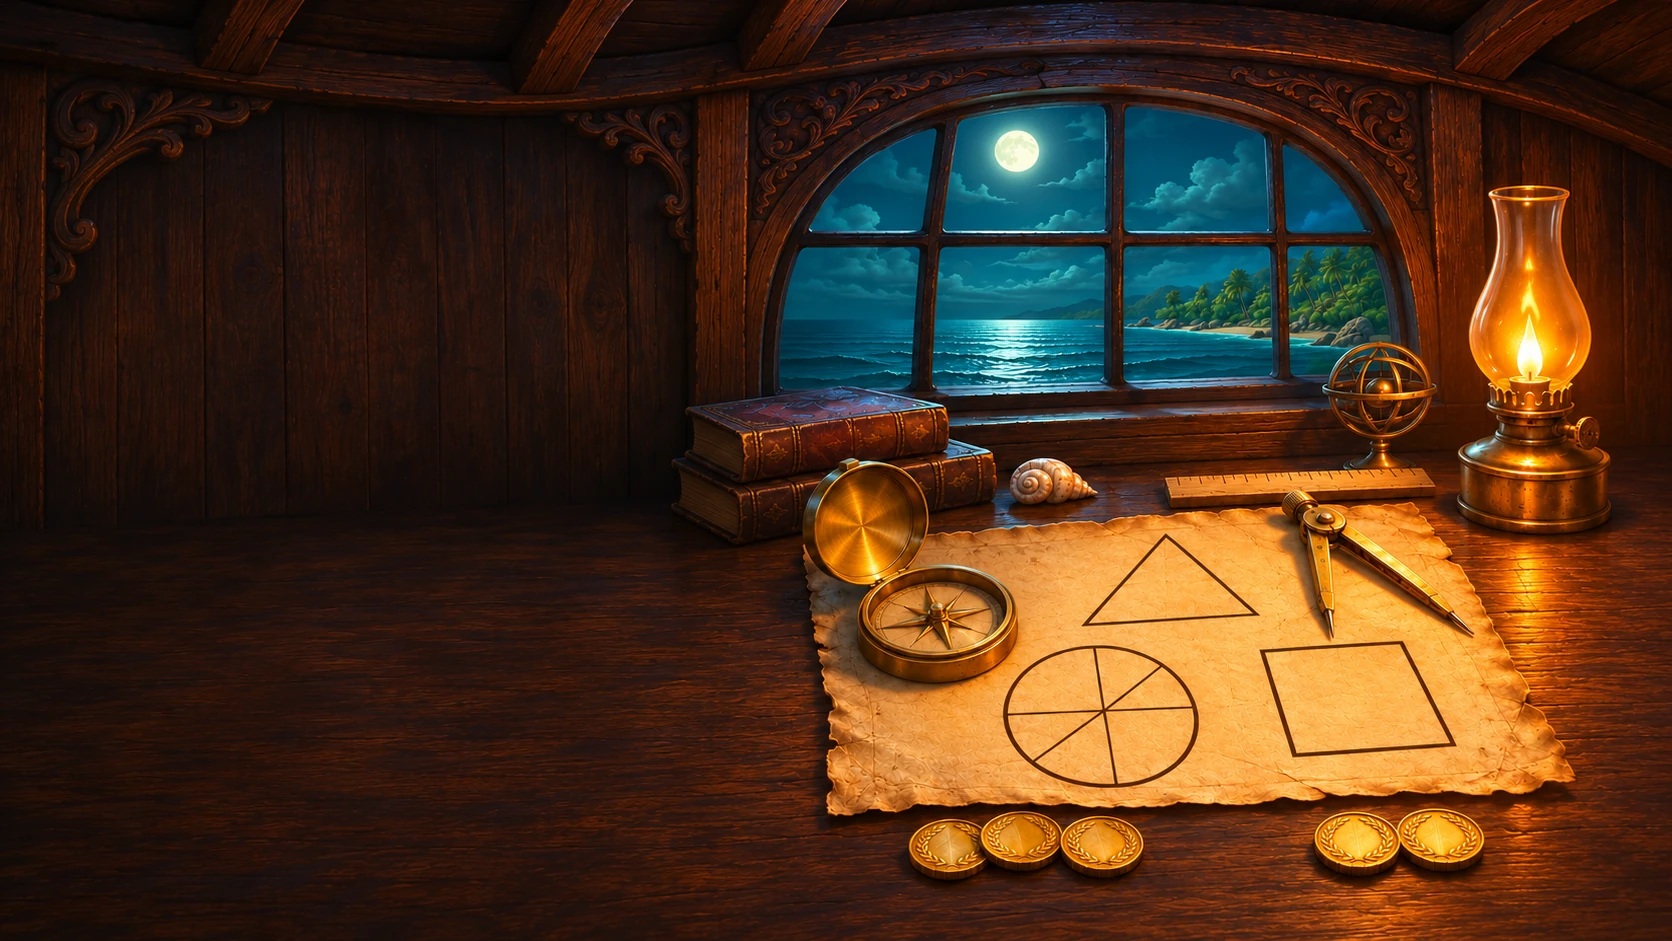
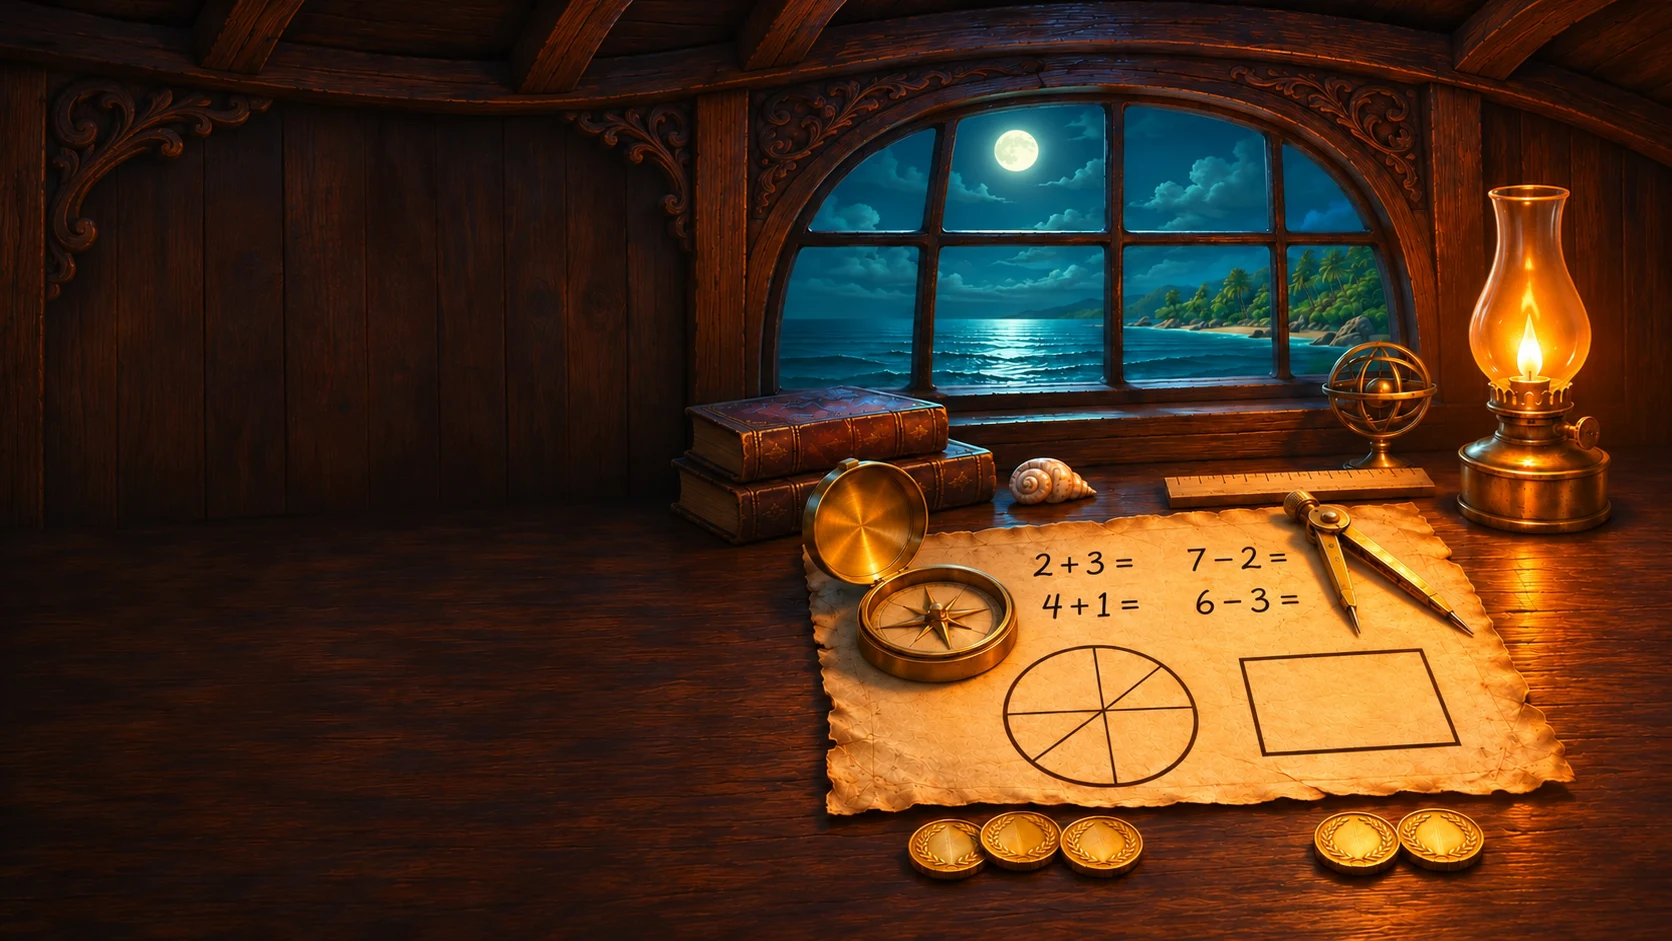
Add arithmetic notes and main-menu language in both pirate games

diff --git a/demos/broadside/src/ui/voyageHud.ts b/demos/broadside/src/ui/voyageHud.ts
@@ -24,6 +24,8 @@ import { icon } from "./icons";
 import { backButton, menuBrand, menuHeader } from "./menuChrome";
 import { PRIVATE_PEARL } from "../privatePearl";
 import { lanternHome } from "./lanternHome";
+import { createI18n, isLanguagePreference, readLanguagePreference, saveLanguagePreference } from "../math/i18n";
+import { languagePickerMarkup, dismissLanguagePicker } from "./languagePicker";
 import "./explorationHud.css";
 import { touchSteeringTurn } from "../input/touchSteering";
 import { pirateShipArt } from "./worldArt";
@@ -34,6 +36,11 @@ import { drawLandmarkSymbol } from "./seaChartSymbols";
 import { mountMapPan, type MapCamera, type MapPanController } from "./mapPan";
 import { worldChoices, shoreMarker } from "./islandChart";
 import { LEVEL_ROUTE, locationWorld, type ShipLocation } from "../game/journey";
+const homeLanguageKey = "broadside.home.language.v1";
+const deviceLanguages = () => navigator.languages?.length ? navigator.languages : [navigator.language];
+function homeStorage(): Storage | undefined {
+  try { return window.localStorage; } catch { return undefined; }
+}
 interface Handlers {
   start: (index: number) => void;
   travel: (destination: "cave" | "ship" | "hold" | number) => void;
@@ -65,6 +72,7 @@ export class VoyageHud {
   private goldWorld = 0;
   pack = 0;
   private progress: Progress;
+  private homeLanguage = readLanguagePreference(homeStorage(), homeLanguageKey);
   private messageUntil = 0;
   private activeLevel = 0;
   private freeSeed: number | null = null;
@@ -91,6 +99,7 @@ export class VoyageHud {
     <section id="captain-menu" class="captain-menu">
       <div class="menu-atmosphere" aria-hidden="true"><div class="moon"></div><div class="distant-rocks"></div><div class="hero-ship">${pirateShipArt()}</div><div class="ocean-mist"></div><div class="menu-embers"></div></div>
       <div id="main-menu" class="menu-page">${lanternHome()}</div>
+      <dialog class="language-picker" aria-labelledby="language-picker-title"></dialog>
       <div id="world-menu" class="menu-page" hidden><div class="menu-heading"><span class="eyebrow">CHART YOUR COURSE</span><h1>The pirate seas</h1><p>Choose an island. Chart your adventure.</p></div><div class="world-map" role="group" aria-label="Pirate sea chart"><svg class="map-route" viewBox="0 0 1000 1000" preserveAspectRatio="none" aria-hidden="true"><path class="route-wide" d="M370 930 C280 885 90 720 170 520 S250 90 410 190 S440 650 650 480 S735 90 865 135"/><path class="route-tall" d="M170 930 C110 810 110 710 245 635 S815 810 755 545 S80 525 245 185 S570 290 755 150"/></svg><button id="map-cave" class="map-cave" aria-label="Visit treasure cave"><img class="cave-art" src="${import.meta.env.BASE_URL}assets/map/treasure-cave.webp" width="640" height="640" alt="" draggable="false" decoding="async" /><span>Your cave</span></button><div id="world-packs"></div></div><p class="map-footnote">Gold in every level. A special treasure in every world.</p></div>
       <div id="level-menu" class="menu-page" hidden><div class="menu-heading"><span class="eyebrow" id="world-number"></span><h1 id="world-name"></h1><p id="pack-caption"></p></div><div class="level-board"><div class="regional-viewport" tabindex="0" aria-label="Island route" data-map-viewport><div id="voyage-levels" data-map-world></div><button class="regional-center" data-map-control data-map-center aria-label="Recenter map" hidden>${icon("compass")}</button></div><p class="level-note">1,000 gold per level · Complete the world for its special treasure.</p></div></div>
       <div id="settings-menu" class="menu-page" hidden><div class="menu-heading"><span class="eyebrow">THE CAPTAIN’S ORDERS</span><h1>Settings</h1></div><div class="settings-board"><label class="coin-sounds-choice"><input id="coin-sounds" type="checkbox"> Coin sound effects</label><p id="coin-sounds-note">Clinks when coins tumble and land.</p><p>Steer with the wheel. Tap BOOM to fire.<br>Your treasures and stars are saved automatically.</p><button type="button" class="privacy-action" data-open-privacy>Privacy & support</button><p class="art-credit">Black Pearl model by <a href="https://www.thingiverse.com/thing:4951578" target="_blank" rel="noopener">DeltaX_F</a> · <a href="https://creativecommons.org/licenses/by/4.0/" target="_blank" rel="noopener">CC BY 4.0</a><br>Adapted for Broadside.</p></div></div>
@@ -201,6 +210,33 @@ export class VoyageHud {
     q("#v-anchor").onclick = h.anchor;
     q("#menu-play").onclick = () => this.showMenu("worlds");
     q("#home-ship").onclick = () => h.travel("hold");
+    const languagePicker = r.querySelector<HTMLDialogElement>(".language-picker")!;
+    const drawLanguage = (failed = false) => {
+      const languages = deviceLanguages();
+      const i18n = createI18n(this.homeLanguage, languages);
+      languagePicker.lang = i18n.language;
+      languagePicker.innerHTML = languagePickerMarkup(i18n, this.homeLanguage, languages, failed);
+    };
+    const focusLanguage = () => languagePicker.querySelector<HTMLElement>('[aria-pressed="true"]')?.focus();
+    q("#menu-language").onclick = () => {
+      drawLanguage();
+      languagePicker.showModal();
+      focusLanguage();
+    };
+    languagePicker.onclick = event => {
+      if (dismissLanguagePicker(languagePicker, event)) { languagePicker.close(); return; }
+      const choice = (event.target as HTMLElement).closest<HTMLElement>("[data-language]")?.dataset.language;
+      if (!isLanguagePreference(choice)) return;
+      this.homeLanguage = choice;
+      this.renderHomeLanguage();
+      if (saveLanguagePreference(choice, homeStorage(), homeLanguageKey)) {
+        languagePicker.close();
+        q("#menu-language").focus();
+      } else { drawLanguage(true); focusLanguage(); }
+    };
+    window.addEventListener("languagechange", () => {
+      if (r.isConnected && this.homeLanguage === "auto") this.renderHomeLanguage();
+    });
     q("#menu-settings").onclick = () => this.showMenu("settings");
     q("#menu-cave").onclick = q("#map-cave").onclick = () => h.travel("cave");
     q("#visit-ship").onclick = () => { this.closeShipPanel(); h.travel("ship"); };
@@ -352,6 +388,22 @@ export class VoyageHud {
     this.renderRelic();
     this.renderLevels();
   }
+  private renderHomeLanguage(): void {
+    const { language, t, format, plural } = createI18n(this.homeLanguage, deviceLanguages());
+    const count = cargoChests(this.progress).length;
+    const gold = goldTotal(caveProgress(this.progress));
+    this.q("#main-menu").lang = language;
+    this.q(".lantern-actions").setAttribute("aria-label", t("home"));
+    this.q("#menu-play span:last-child").textContent = t("play");
+    this.q("#home-ship .lantern-action-title").textContent = t("yourShip");
+    this.q("#home-ship strong").textContent = count ? plural("aboard", count) : t("noCargo");
+    this.q("#home-ship small").textContent = count ? t("comingHome", { gold: format(count * 1000) }) : "";
+    this.q("#menu-cave .lantern-action-title").textContent = t("yourCave");
+    this.q("#menu-cave strong").textContent = language === "en" ? `${format(gold)} gold saved` : t("savedGold", { gold: format(gold) });
+    this.q("#menu-cave small").textContent = "";
+    this.q("#menu-settings").textContent = t("settings");
+    this.q("#menu-language").textContent = t("language");
+  }
   private menuPage: "main" | "worlds" | "levels" | "settings" = "main";
   showMenu(page: "main" | "worlds" | "levels" | "settings" = "main"): void {
     if (page === "levels" && !worldUnlocked(this.progress.voyages, this.pack)) page = "worlds";
@@ -363,12 +415,7 @@ export class VoyageHud {
     this.regionalPan?.destroy();
     this.regionalPan = undefined;
     this.menuPage = page;
-    if (page === "main") {
-      const count = cargoChests(this.progress).length;
-      this.q('[data-home-destination="ship"] strong').textContent = count ? `${count.toLocaleString()} ${count === 1 ? "chest" : "chests"} aboard` : "No chests aboard";
-      this.q('[data-home-destination="ship"] small').textContent = count ? `${(count * 1000).toLocaleString()} gold to bring home` : "Your next reward goes here";
-      this.q('[data-home-destination="chest"] strong').textContent = `${goldTotal(caveProgress(this.progress)).toLocaleString()} gold saved`;
-    }
+    if (page === "main") this.renderHomeLanguage();
     this.q("#captain-menu").hidden = false;
     this.q("#cave-ui").hidden =
       this.q("#voyage-play").hidden =

diff --git a/demos/broadside/src/math/main.ts b/demos/broadside/src/math/main.ts
@@ -22,6 +22,7 @@ import { worldChoices, worldChart } from "../ui/islandChart";
 import "./adventure.css";
 import "./focus.css";
 import "./home.css";
+import { languagePickerMarkup, dismissLanguagePicker } from "../ui/languagePicker";
 
 type Screen = "home" | "operators" | "map" | "levels" | "question" | "reward" | "ship" | "unloading" | "complete" | "cave" | "settings";
 installButtonHaptics();
@@ -142,7 +143,7 @@ function home(): string {
       </button>` : ""}
       <button class="calculus-destination" data-action="ship"><strong>${t("yourShip")}</strong><small>${pending}</small></button>
       <button class="calculus-destination" data-action="cave" aria-label="${t("yourCave")}: ${t("savedGold", { gold: format(gold) })}"><strong>${t("yourCave")}</strong><small>${t("savedGold", { gold: navNumber(gold) })}</small></button>
-      <button class="calculus-destination" data-action="settings"><strong>${t("settings")}</strong></button>
+      <div class="home-utilities"><button class="calculus-destination" data-action="settings"><strong>${t("settings")}</strong></button><button class="calculus-destination" data-action="language" aria-haspopup="dialog"><strong>${t("language")}</strong></button></div>
     </nav>
   </section>`;
 }
@@ -410,8 +411,7 @@ function languageLabel() {
   return `<span aria-hidden="true">${flag}</span> ${name}`;
 }
 function drawPicker() {
-  const options = [{ id: "auto", name: t("automatic"), flag: LANGUAGES.find(lang => lang.id === detectLanguage(deviceLanguages()))!.flag }, ...LANGUAGES];
-  picker.innerHTML = `<header><h2 id="language-picker-title">${t("language")}</h2><button data-dismiss aria-label="${t("close")}">×</button></header><div class="language-options">${options.map(({id, name, flag}) => `<button data-language="${id}" lang="${id === "auto" ? i18n.language : id}" aria-pressed="${languagePreference === id}"><span aria-hidden="true">${flag}</span>${name}${languagePreference === id ? ' <b aria-hidden="true">✓</b>' : ""}</button>`).join("")}</div>${languageSaveFailed ? `<p role="status" id="language-save-error">${t("languageSaveError")}</p>` : ""}`;
+  picker.innerHTML = languagePickerMarkup(i18n, languagePreference, deviceLanguages(), languageSaveFailed);
 }
 function openPicker() {
   drawPicker();
@@ -420,11 +420,7 @@ function openPicker() {
 }
 picker.addEventListener("click", event => {
   const target = event.target as HTMLElement;
-  const rect = picker.getBoundingClientRect();
-  if (target.closest("[data-dismiss]") || (target === picker && (event.clientX < rect.left || event.clientX > rect.right || event.clientY < rect.top || event.clientY > rect.bottom))) {
-    picker.close();
-    return;
-  }
+  if (dismissLanguagePicker(picker, event)) { picker.close(); return; }
   const choice = target.closest<HTMLElement>("[data-language]")?.dataset.language;
   if (!isLanguagePreference(choice)) return;
   languagePreference = choice;
@@ -465,7 +461,7 @@ root.addEventListener("click", (event) => {
     case "home": show("home"); break;
     case "play": show("operators"); break;
     case "back": goBack(); break;
-    case "language": if (screen === "settings") openPicker(); break;
+    case "language": if (screen === "settings" || screen === "home") openPicker(); break;
     case "settings":
       if (screen !== "settings") returnScreen = screen;
       show("settings"); break;

diff --git a/demos/broadside/src/ui/languagePicker.css b/demos/broadside/src/ui/languagePicker.css
@@ -1,0 +1,30 @@
+.language-picker {
+  box-sizing: border-box;
+  width: min(380px, calc(100vw - var(--pirate-safe-left, 0px) - var(--pirate-safe-right, 0px) - 32px));
+  max-height: calc(100dvh - var(--pirate-safe-top, 0px) - var(--pirate-safe-bottom, 0px) - 24px);
+  margin: auto;
+  border: 1px solid #a9864d;
+  border-radius: 18px;
+  padding: 16px;
+  color: #102e40;
+  background: #fff6e3;
+  overflow: auto;
+  overscroll-behavior: contain;
+}
+.language-picker::backdrop { background: rgb(7 29 40 / 65%); }
+.language-picker header { display: flex; align-items: center; justify-content: space-between; margin-bottom: 8px; }
+.language-picker h2 { font: 700 26px Fraunces, Georgia, serif; margin: 0; }
+.language-picker button { min-height: 44px; color: inherit; font: inherit; }
+.language-picker [data-dismiss] { min-width: 44px; border: 0; background: transparent; font-size: 28px; }
+.language-options { display: grid; grid-template-columns: repeat(2, minmax(0,1fr)); gap: 6px; }
+.language-options button {
+  display: flex; align-items: center; gap: 6px; padding: 6px 8px;
+  border: 1px solid #b2a481; border-radius: 9px; background: #fffdf6;
+  text-align: start; font-size: 15px; line-height: 1.2;
+}
+.language-options button:first-child { grid-column: 1 / -1; }
+.language-options [aria-pressed="true"] { background: #ffdc8a; border-color: #83620d; }
+.language-options b { margin-left: auto; }
+
+.home-utilities { display: flex; flex-wrap: wrap; gap: 0 14px; }
+.home-utilities button { max-width: 100%; }

diff --git a/demos/broadside/src/math/focus.css b/demos/broadside/src/math/focus.css
@@ -77,33 +77,6 @@ html, body, body * {
   user-select: none;
   -webkit-touch-callout: none;
 }
-.language-picker {
-  box-sizing: border-box;
-  width: min(380px, calc(100vw - 32px));
-  max-height: calc(100dvh - env(safe-area-inset-top) - env(safe-area-inset-bottom) - 24px);
-  margin: auto;
-  border: 1px solid #a9864d;
-  border-radius: 18px;
-  padding: 16px;
-  color: #102e40;
-  background: #fff6e3;
-  overflow: auto;
-  overscroll-behavior: contain;
-}
-.language-picker::backdrop { background: rgb(7 29 40 / 65%); }
-.language-picker header { display: flex; align-items: center; justify-content: space-between; margin-bottom: 8px; }
-.language-picker h2 { font: 700 26px Fraunces, Georgia, serif; margin: 0; }
-.language-picker button { min-height: 44px; color: inherit; font: inherit; }
-.language-picker [data-dismiss] { min-width: 44px; border: 0; background: transparent; font-size: 28px; }
-.language-options { display: grid; grid-template-columns: repeat(2, minmax(0,1fr)); gap: 6px; }
-.language-options button {
-  display: flex; align-items: center; gap: 6px; padding: 6px 8px;
-  border: 1px solid #b2a481; border-radius: 9px; background: #fffdf6;
-  text-align: start; font-size: 15px; line-height: 1.2;
-}
-.language-options button:first-child { grid-column: 1 / -1; }
-.language-options [aria-pressed="true"] { background: #ffdc8a; border-color: #83620d; }
-.language-options b { margin-left: auto; }
 
 .operation-world .world-map-tools { justify-content: flex-end; }
 

diff --git a/demos/broadside/src/ui/languagePicker.ts b/demos/broadside/src/ui/languagePicker.ts
@@ -1,0 +1,18 @@
+import { LANGUAGES, detectLanguage, type createI18n, type LanguagePreference } from "../math/i18n";
+import "./languagePicker.css";
+
+export function languagePickerMarkup(
+  i18n: ReturnType<typeof createI18n>, preference: LanguagePreference, deviceLanguages: readonly string[], saveFailed: boolean,
+): string {
+  const automatic = LANGUAGES.find(language => language.id === detectLanguage(deviceLanguages))!;
+  const options = [{ id: "auto", name: i18n.t("automatic"), flag: automatic.flag }, ...LANGUAGES];
+  return `<header><h2 id="language-picker-title">${i18n.t("language")}</h2><button data-dismiss aria-label="${i18n.t("close")}">×</button></header>
+    <div class="language-options">${options.map(({ id, name, flag }) => `<button data-language="${id}" lang="${id === "auto" ? i18n.language : id}" aria-pressed="${preference === id}"><span aria-hidden="true">${flag}</span>${name}${preference === id ? " <b aria-hidden=\"true\">✓</b>" : ""}</button>`).join("")}</div>
+    ${saveFailed ? `<p role="status" id="language-save-error">${i18n.t("languageSaveError")}</p>` : ""}`;
+}
+
+export function dismissLanguagePicker(picker: HTMLDialogElement, event: MouseEvent): boolean {
+  const rect = picker.getBoundingClientRect();
+  return !!(event.target as HTMLElement).closest("[data-dismiss]") ||
+    (event.target === picker && (event.clientX < rect.left || event.clientX > rect.right || event.clientY < rect.top || event.clientY > rect.bottom));
+}

diff --git a/demos/broadside/src/ui/voyageHud.test.ts b/demos/broadside/src/ui/voyageHud.test.ts
@@ -24,7 +24,23 @@ function setup(privateShip: boolean, cargo = false) {
   return { hud, handlers, button, progress };
 }
 
-afterEach(() => { document.body.replaceChildren(); ship.private = false; });
+afterEach(() => {
+  document.body.replaceChildren();
+  localStorage.removeItem("broadside.home.language.v1");
+  ship.private = false;
+});
+
+it("changes Broadside's home language directly and restores it next launch", () => {
+  const { hud, button } = setup(false);
+  document.body.append(hud.root);
+  button("#menu-language").click();
+  expect(hud.root.querySelector("dialog")?.open).toBe(true);
+  button('[data-language="nb"]').click();
+  expect(button("#menu-play").textContent).toContain("Spill");
+  expect(hud.root.querySelector("dialog")?.open).toBe(false);
+  expect(document.activeElement).toBe(button("#menu-language"));
+  expect(setup(false).button("#menu-language").textContent).toBe("Språk");
+});
 
 it("uses the singular keepsake count in the real private ship room", () => {
   const { hud, progress } = setup(true);

diff --git a/demos/broadside/src/ui/lanternHome.ts b/demos/broadside/src/ui/lanternHome.ts
@@ -15,7 +15,7 @@ export function lanternHome(): string {
       <button id="menu-play" class="lantern-play"><span class="lantern-play-arrow" aria-hidden="true">${icon("play")}</span><span>Play</span></button>
       <button id="home-ship" data-home-destination="ship"><span class="lantern-action-title">Your ship</span><strong>No chests aboard</strong><small>Your next reward goes here</small></button>
       <button id="menu-cave" data-home-destination="chest"><span class="lantern-action-title">Your cave</span><strong>0 gold saved</strong><small>Explore your treasure</small></button>
-      <button id="menu-settings" class="lantern-settings">Settings</button>
+      <div class="home-utilities"><button id="menu-settings" class="lantern-settings">Settings</button><button id="menu-language" aria-haspopup="dialog">Language</button></div>
     </nav>
     <p class="pirate-home-description lantern-message">Brave the seas. Bring home the treasure.</p>
   </div>`;

diff --git a/demos/broadside/src/math/i18n.ts b/demos/broadside/src/math/i18n.ts
@@ -27,16 +27,16 @@ export function detectLanguage(languages: readonly string[]): Language {
   }
   return "en";
 }
-export function readLanguagePreference(storage?: Pick<Storage, "getItem">): LanguagePreference {
+export function readLanguagePreference(storage?: Pick<Storage, "getItem">, key = LANGUAGE_KEY): LanguagePreference {
   try {
-    const value = storage?.getItem(LANGUAGE_KEY);
+    const value = storage?.getItem(key);
     return isLanguagePreference(value) ? value : "auto";
   } catch { return "auto"; }
 }
-export function saveLanguagePreference(preference: LanguagePreference, storage?: Pick<Storage, "setItem">): boolean {
+export function saveLanguagePreference(preference: LanguagePreference, storage?: Pick<Storage, "setItem">, key = LANGUAGE_KEY): boolean {
   try {
     if (!storage) return false;
-    storage.setItem(LANGUAGE_KEY, preference);
+    storage.setItem(key, preference);
     return true;
   } catch { return false; }
 }

diff --git a/demos/broadside/src/main.ts b/demos/broadside/src/main.ts
@@ -630,6 +630,7 @@ async function main() {
   window.addEventListener("pagehide",event=>{if(!event.persisted){unbindPirate();pirate.dispose();}},{once:true});
 
   window.addEventListener("keydown", (e) => {
+    if (hud.root.querySelector("dialog[open]")) return;
     if (mode === "travel") {
       if (e.code === "Escape") { menu(); hud.showMenu("worlds"); e.preventDefault(); }
       return;
